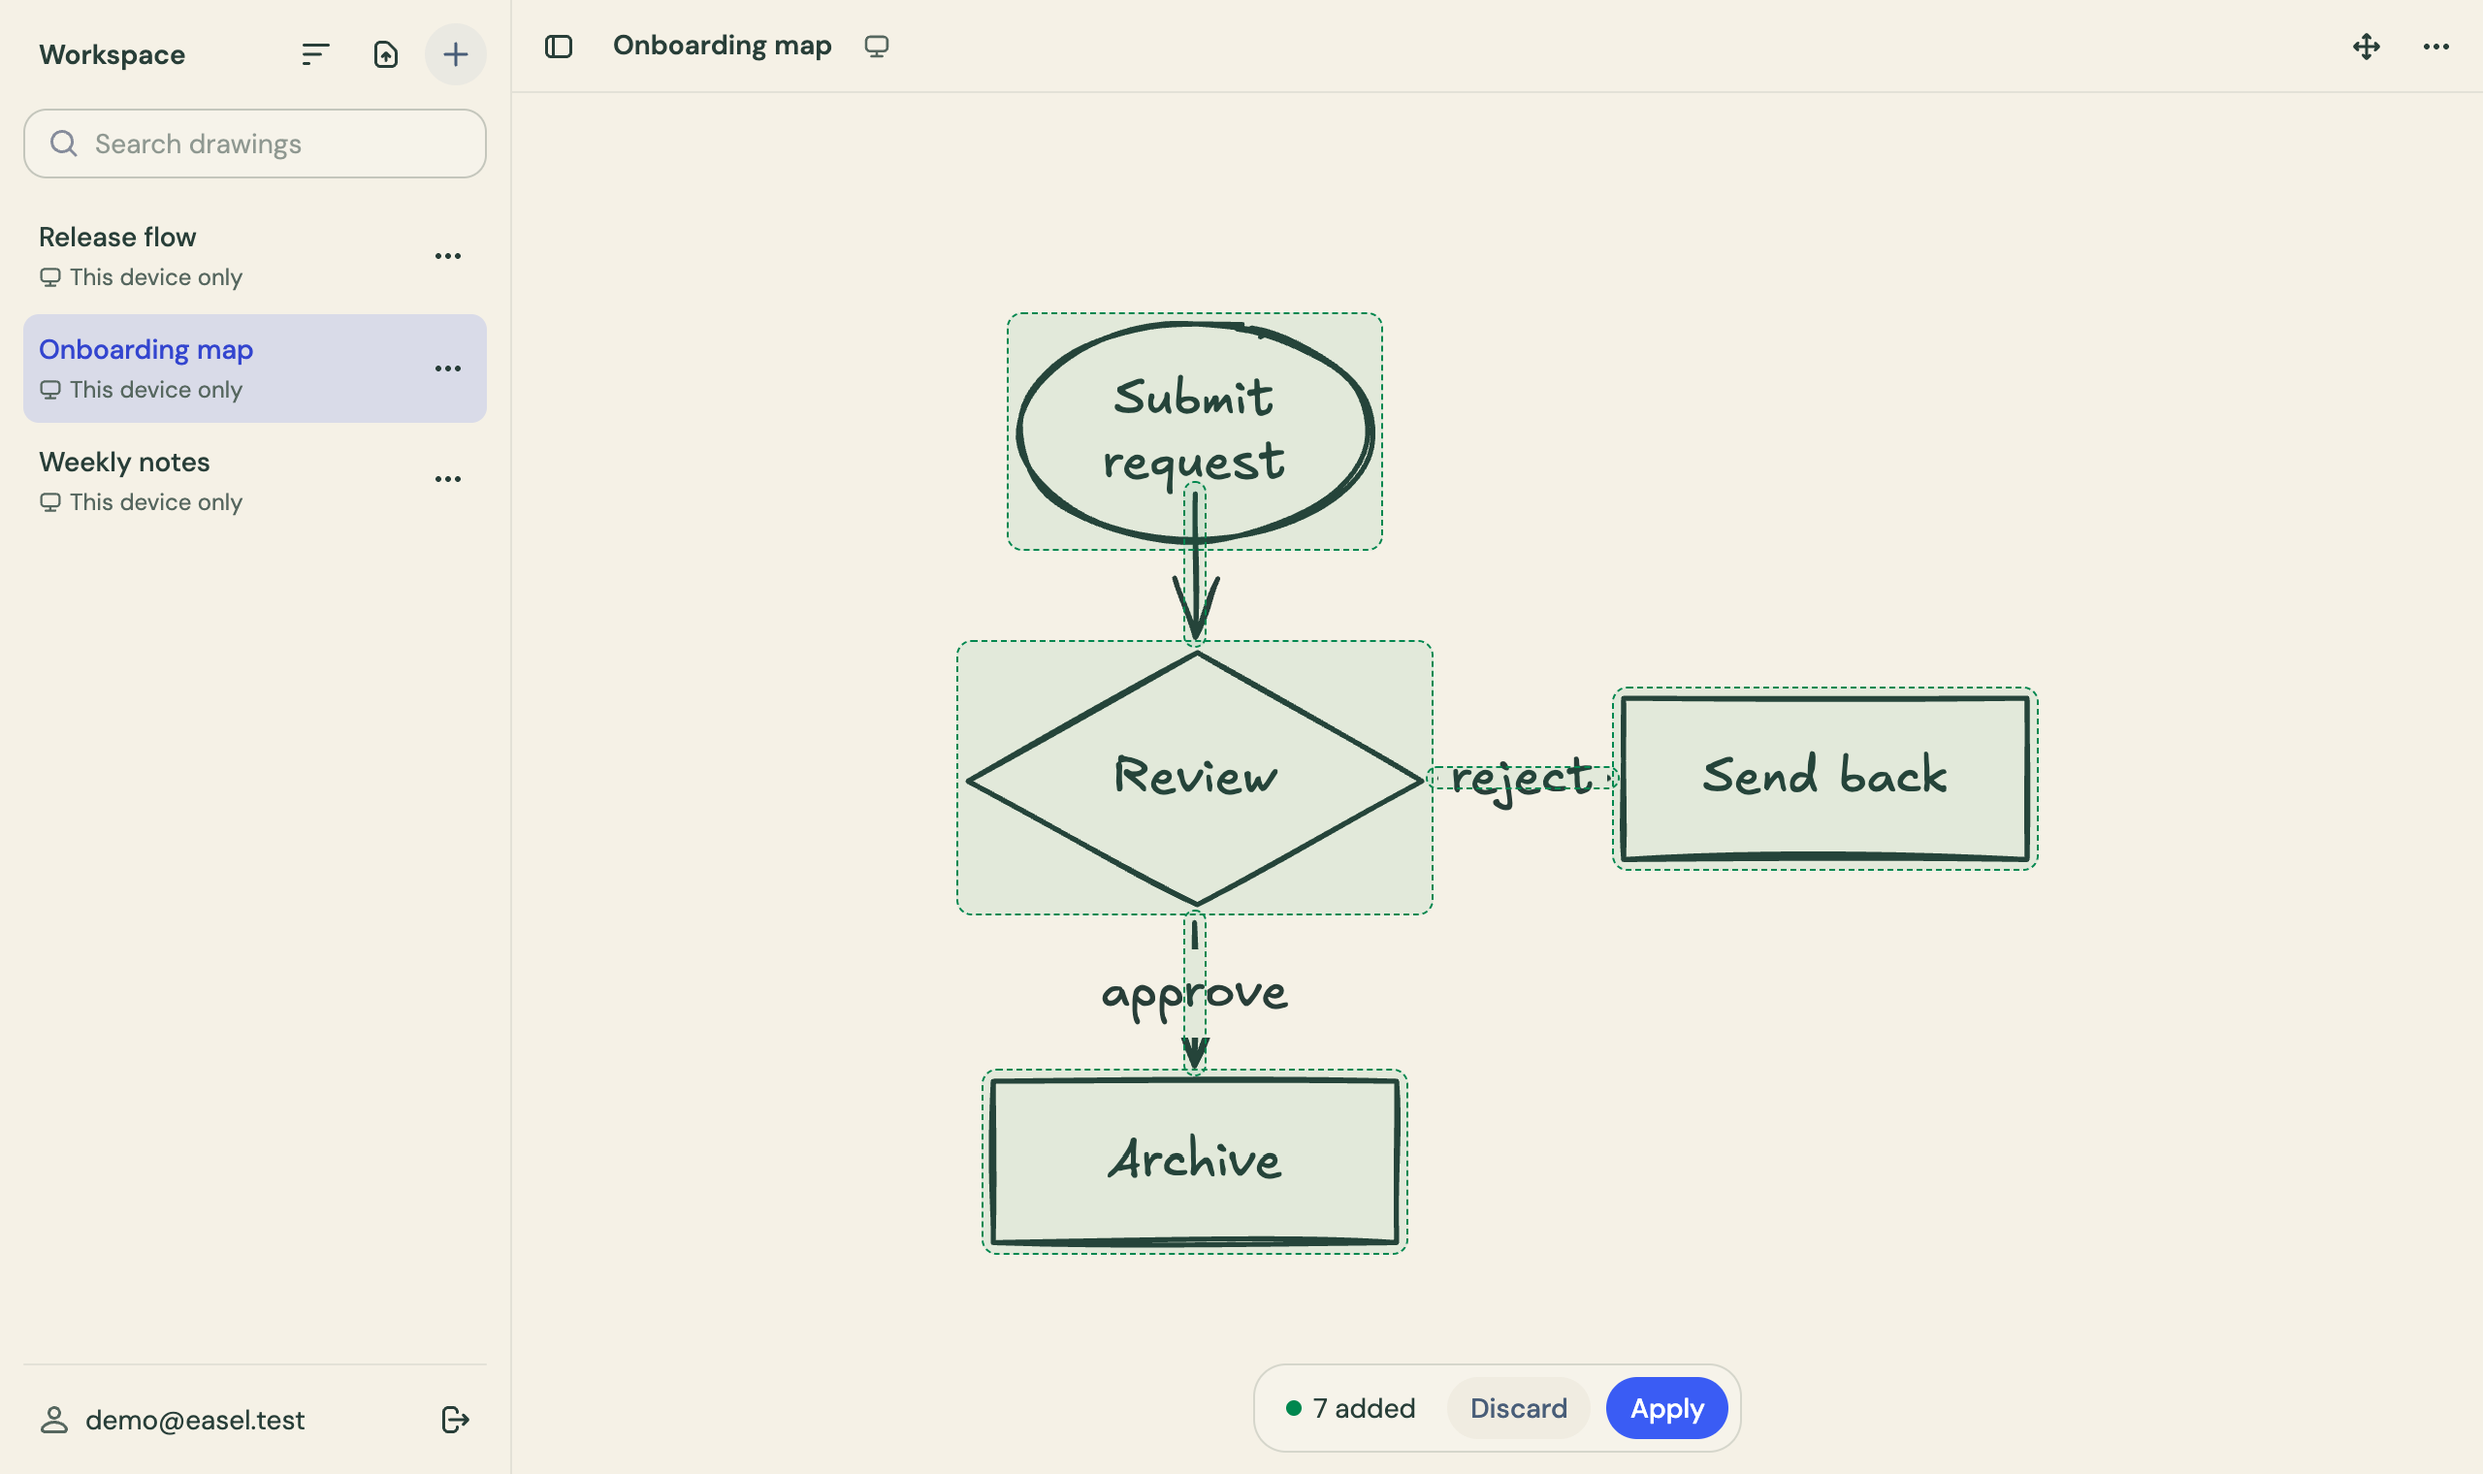
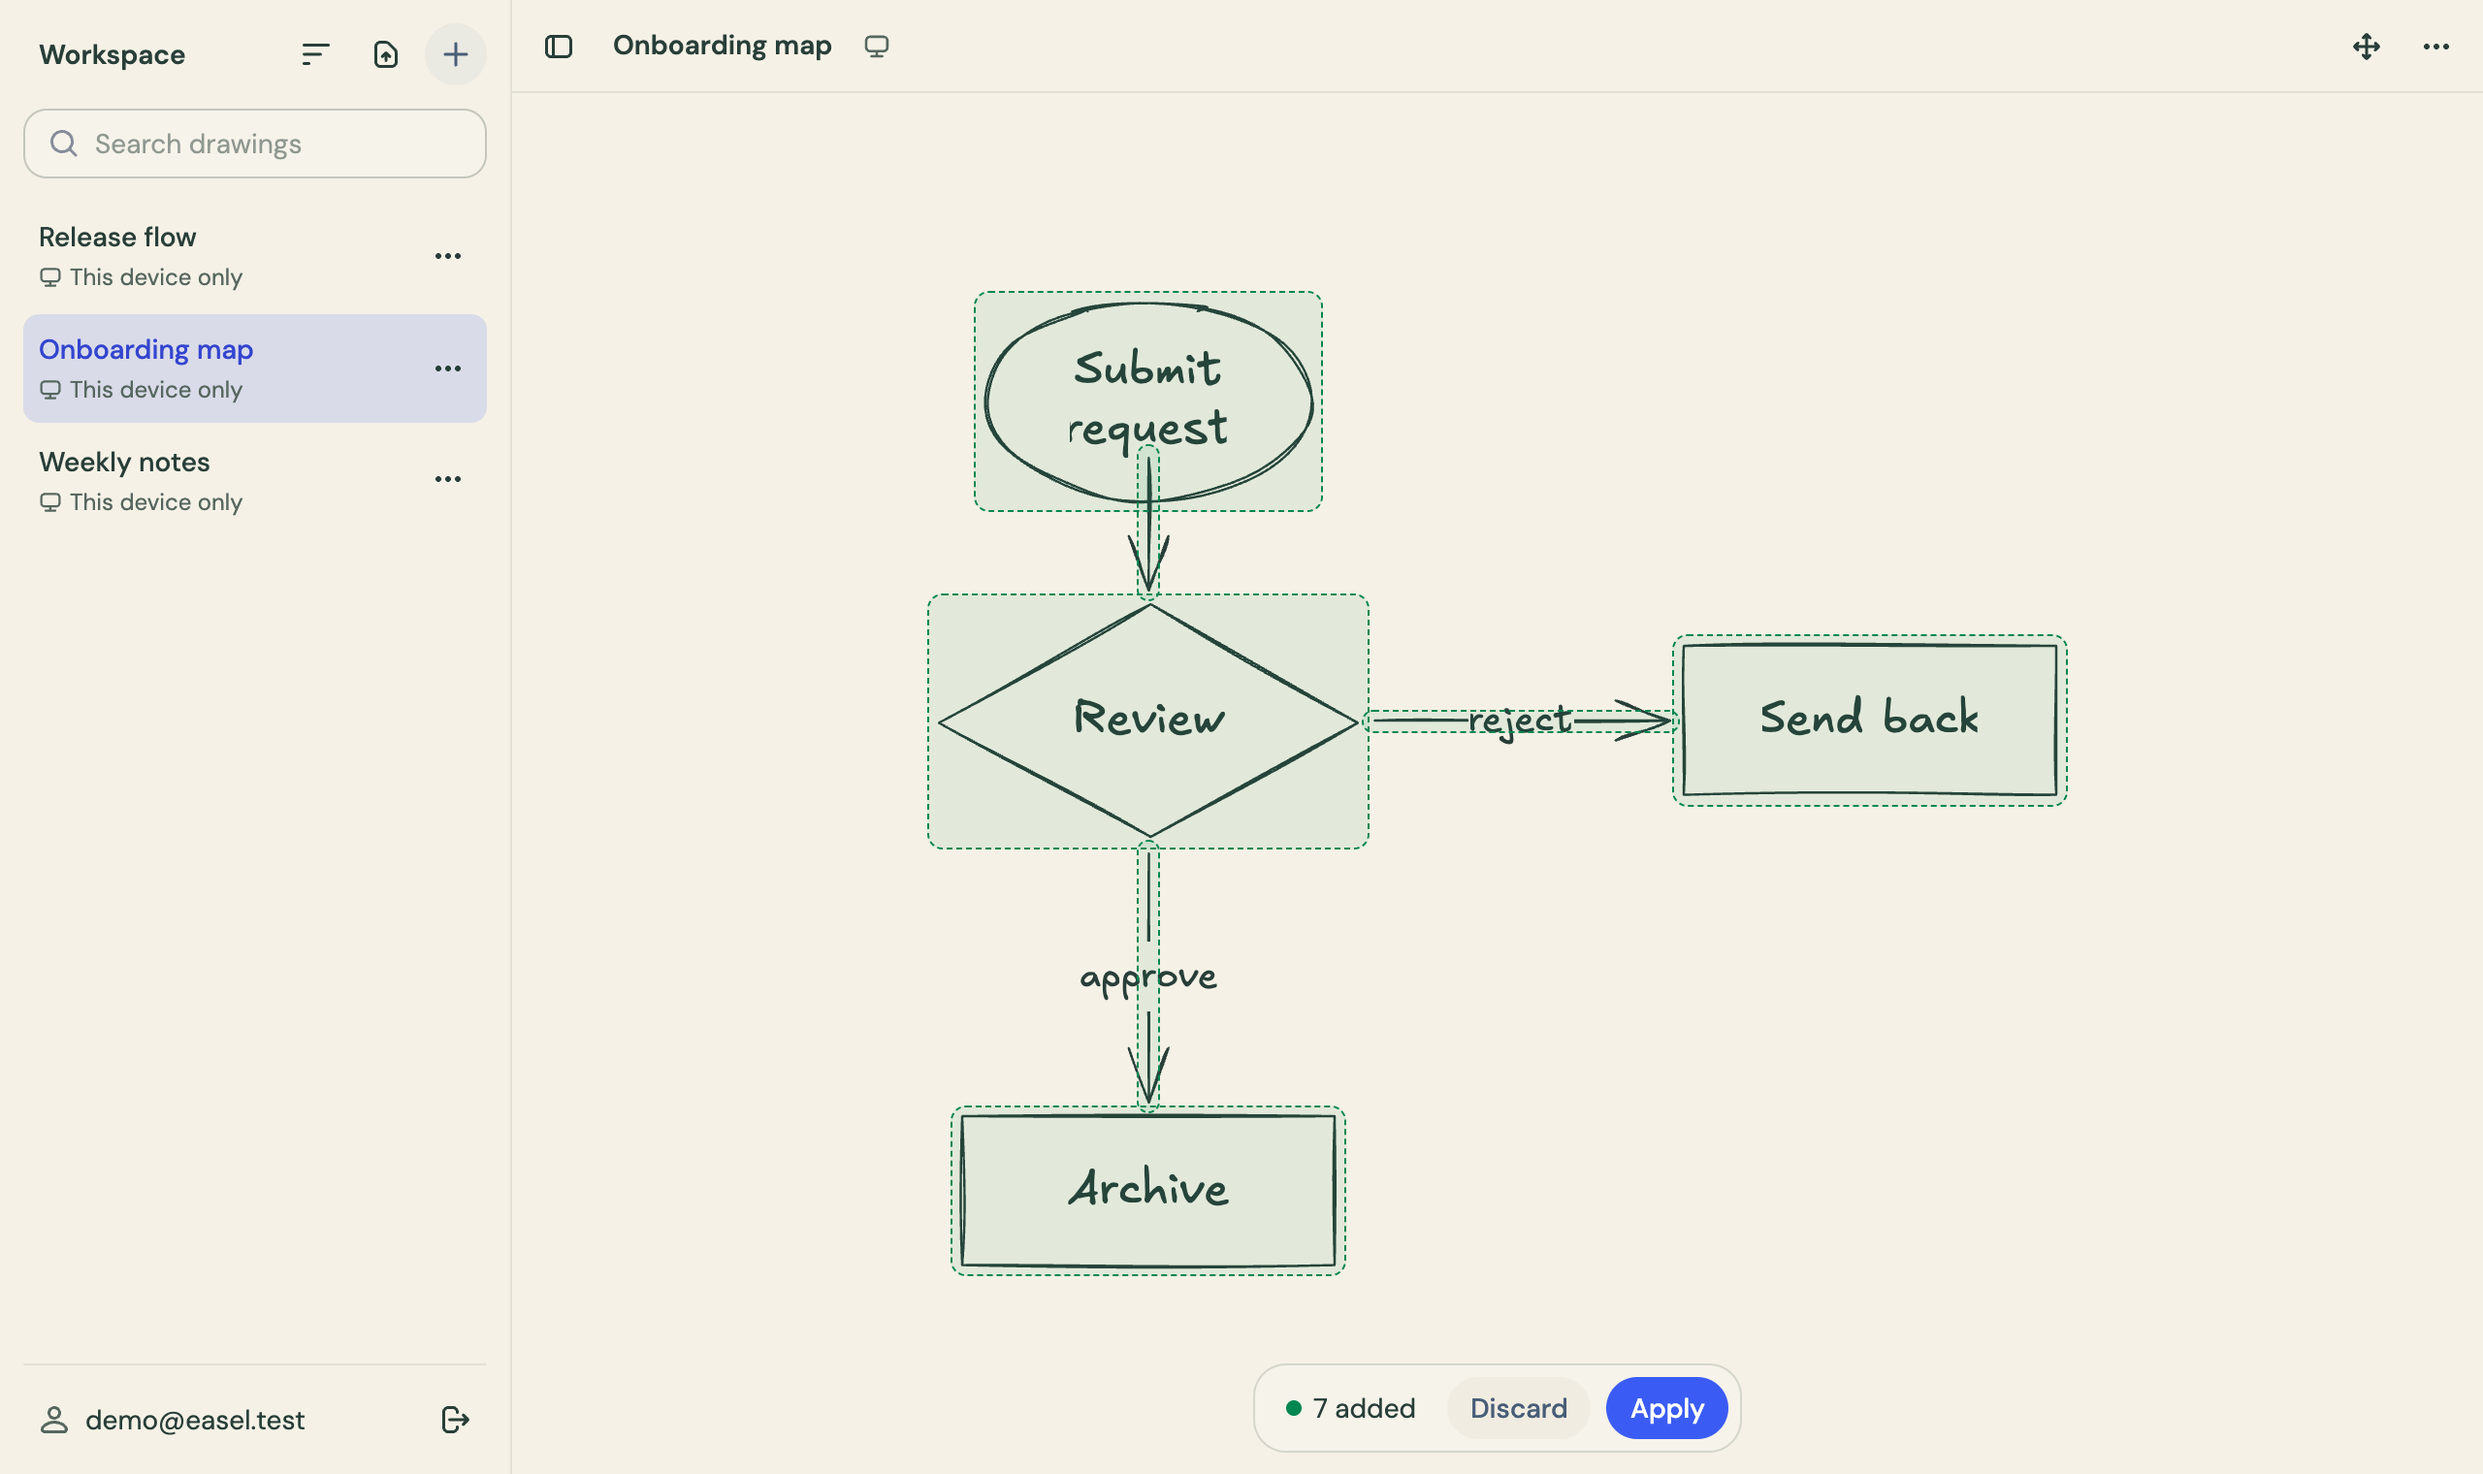
Match AI-drawn strokes to the current width and keep edge labels off the line
New shapes and connectors from an AI change now use the stroke width the
user is drawing with instead of the engine default. Edge labels use a
smaller size, and the prompt and the mock leave room for a label between
connected nodes.

Changed region(s): [[0.375, 0.1855, 0.8438, 0.8658], [0.4062, 0.4329, 0.4375, 0.4638]]

diff --git a/src/editor/adapter.ts b/src/editor/adapter.ts
@@ -102,6 +102,8 @@ function styleOf(element: El | undefined) {
   return {strokeColor, backgroundColor, fillStyle, strokeWidth, strokeStyle, roughness, opacity, roundness, angle, groupIds, frameId, locked, link};
 }
 
+const EDGE_LABEL_SIZE = 16;
+
 function build(skeleton: ExcalidrawElementSkeleton): Mutable<El>[] {
   return convertToExcalidrawElements([skeleton], {regenerateIds: false}) as Mutable<El>[];
 }
@@ -111,7 +113,7 @@ function build(skeleton: ExcalidrawElementSkeleton): Mutable<El>[] {
  * This diffs the diagram before and after the change: changed nodes and connectors are regenerated by the engine (which handles text measurement and layout),
  * while unchanged elements are left as they are, including all freehand strokes.
  */
-export function applyDiagram(elements: readonly El[], before: Diagram, after: Diagram, defaults: {strokeColor: string}): ScenePatch {
+export function applyDiagram(elements: readonly El[], before: Diagram, after: Diagram, defaults: {strokeColor: string; strokeWidth: number}): ScenePatch {
   const byId = new Map(elements.map((element) => [element.id, element]));
   const beforeNodes = new Map(before.nodes.map((node) => [node.id, node]));
   const beforeEdges = new Map(before.edges.map((edge) => [edge.id, edge]));
@@ -124,7 +126,11 @@ export function applyDiagram(elements: readonly El[], before: Diagram, after: Di
   const added: string[] = [];
   const updated: string[] = [];
   const deleted: string[] = [];
-  const fresh = {strokeColor: defaults.strokeColor};
+  // New shapes and connectors take the stroke the user is drawing with, so AI changes match hand-drawn ones.
+  const fresh = {strokeColor: defaults.strokeColor, strokeWidth: defaults.strokeWidth};
+  const freshLabel = {strokeColor: defaults.strokeColor};
+  // Connector labels sit on the line itself; a smaller size leaves more of a short connector visible.
+  const freshEdgeLabel = {...freshLabel, fontSize: EDGE_LABEL_SIZE};
 
   const labelOf = (containerId: string) =>
     elements.find((element) => isText(element) && element.containerId === containerId && !element.isDeleted) as ExcalidrawTextElement | undefined;
@@ -175,7 +181,7 @@ export function applyDiagram(elements: readonly El[], before: Diagram, after: Di
           width: node.width,
           height: node.height,
           ...(node.text.trim()
-            ? {label: {text: node.text, ...(oldLabel ? {fontSize: oldLabel.fontSize, fontFamily: oldLabel.fontFamily, strokeColor: oldLabel.strokeColor} : fresh)}}
+            ? {label: {text: node.text, ...(oldLabel ? {fontSize: oldLabel.fontSize, fontFamily: oldLabel.fontFamily, strokeColor: oldLabel.strokeColor} : freshLabel)}}
             : {}),
         }),
         node.id,
@@ -197,7 +203,7 @@ export function applyDiagram(elements: readonly El[], before: Diagram, after: Di
 
     const oldLabel = labelOf(edge.id);
     const label = edge.text.trim()
-      ? {label: {text: edge.text, ...(oldLabel ? {fontSize: oldLabel.fontSize, fontFamily: oldLabel.fontFamily, strokeColor: oldLabel.strokeColor} : fresh)}}
+      ? {label: {text: edge.text, ...(oldLabel ? {fontSize: oldLabel.fontSize, fontFamily: oldLabel.fontFamily, strokeColor: oldLabel.strokeColor} : freshEdgeLabel)}}
       : {};
     // Connectors attached to nodes at both ends are rerouted from the node positions; the rest keep the shape the user drew.
     const reroute = from && to && (rewired || follows || !existing);

diff --git a/server/ai.ts b/server/ai.ts
@@ -89,6 +89,7 @@ Available ops:
 Layout:
 - The canvas also holds handwritten strokes that you cannot see, so change only what the instruction asks for and do not move unrelated nodes just to tidy things up.
 - Place a new node near the nodes it relates to, keep a gap of at least 60 pixels from surrounding nodes, and do not overlap existing nodes.
+- Leave at least 120 pixels between two nodes joined by an edge that has a label, so the label does not cover the line.
 - On a blank canvas start near (0, 0), lay the main flow out top to bottom, and spread branches out to the left and right.
 - Typical sizes: rectangle about 160×64, diamond about 180×100, ellipse about 140×60. Widen the node when the label is long.
 - Keep the text inside nodes short, and use the same language as the user's instruction.
@@ -178,8 +179,8 @@ export const mockProvider: AiProvider = async (prompt, diagram) => {
     return [
       {op: "add_node", node: {id: "start", kind: "ellipse", x: 20, y: 0, width: 140, height: 60, text: label("Submit request", "提交申请")}},
       {op: "add_node", node: {id: "review", kind: "diamond", x: 0, y: 130, width: 180, height: 100, text: label("Review", "审批")}},
-      {op: "add_node", node: {id: "done", kind: "rectangle", x: 10, y: 300, width: 160, height: 64, text: label("Archive", "归档")}},
-      {op: "add_node", node: {id: "reject", kind: "rectangle", x: 260, y: 148, width: 160, height: 64, text: label("Send back", "退回修改")}},
+      {op: "add_node", node: {id: "done", kind: "rectangle", x: 10, y: 350, width: 160, height: 64, text: label("Archive", "归档")}},
+      {op: "add_node", node: {id: "reject", kind: "rectangle", x: 320, y: 148, width: 160, height: 64, text: label("Send back", "退回修改")}},
       {op: "add_edge", edge: {id: "e1", kind: "arrow", from: "start", to: "review", text: ""}},
       {op: "add_edge", edge: {id: "e2", kind: "arrow", from: "review", to: "done", text: label("approve", "通过")}},
       {op: "add_edge", edge: {id: "e3", kind: "arrow", from: "review", to: "reject", text: label("reject", "驳回")}},

diff --git a/src/editor/Editor.tsx b/src/editor/Editor.tsx
@@ -348,7 +348,7 @@ export function Editor({workId, nonce, theme, onUi, ref}: Props) {
         if (!api || previewRef.current) return;
         const state = api.getAppState();
         const original = api.getSceneElementsIncludingDeleted();
-        const patch = applyDiagram(original, before, after, {strokeColor: state.currentItemStrokeColor});
+        const patch = applyDiagram(original, before, after, {strokeColor: state.currentItemStrokeColor, strokeWidth: canvasWidth(level.current, "rectangle")});
         previewRef.current = {original, view: {scrollX: state.scrollX, scrollY: state.scrollY, zoom: state.zoom}, patch};
         api.updateScene({
           elements: patch.preview,
